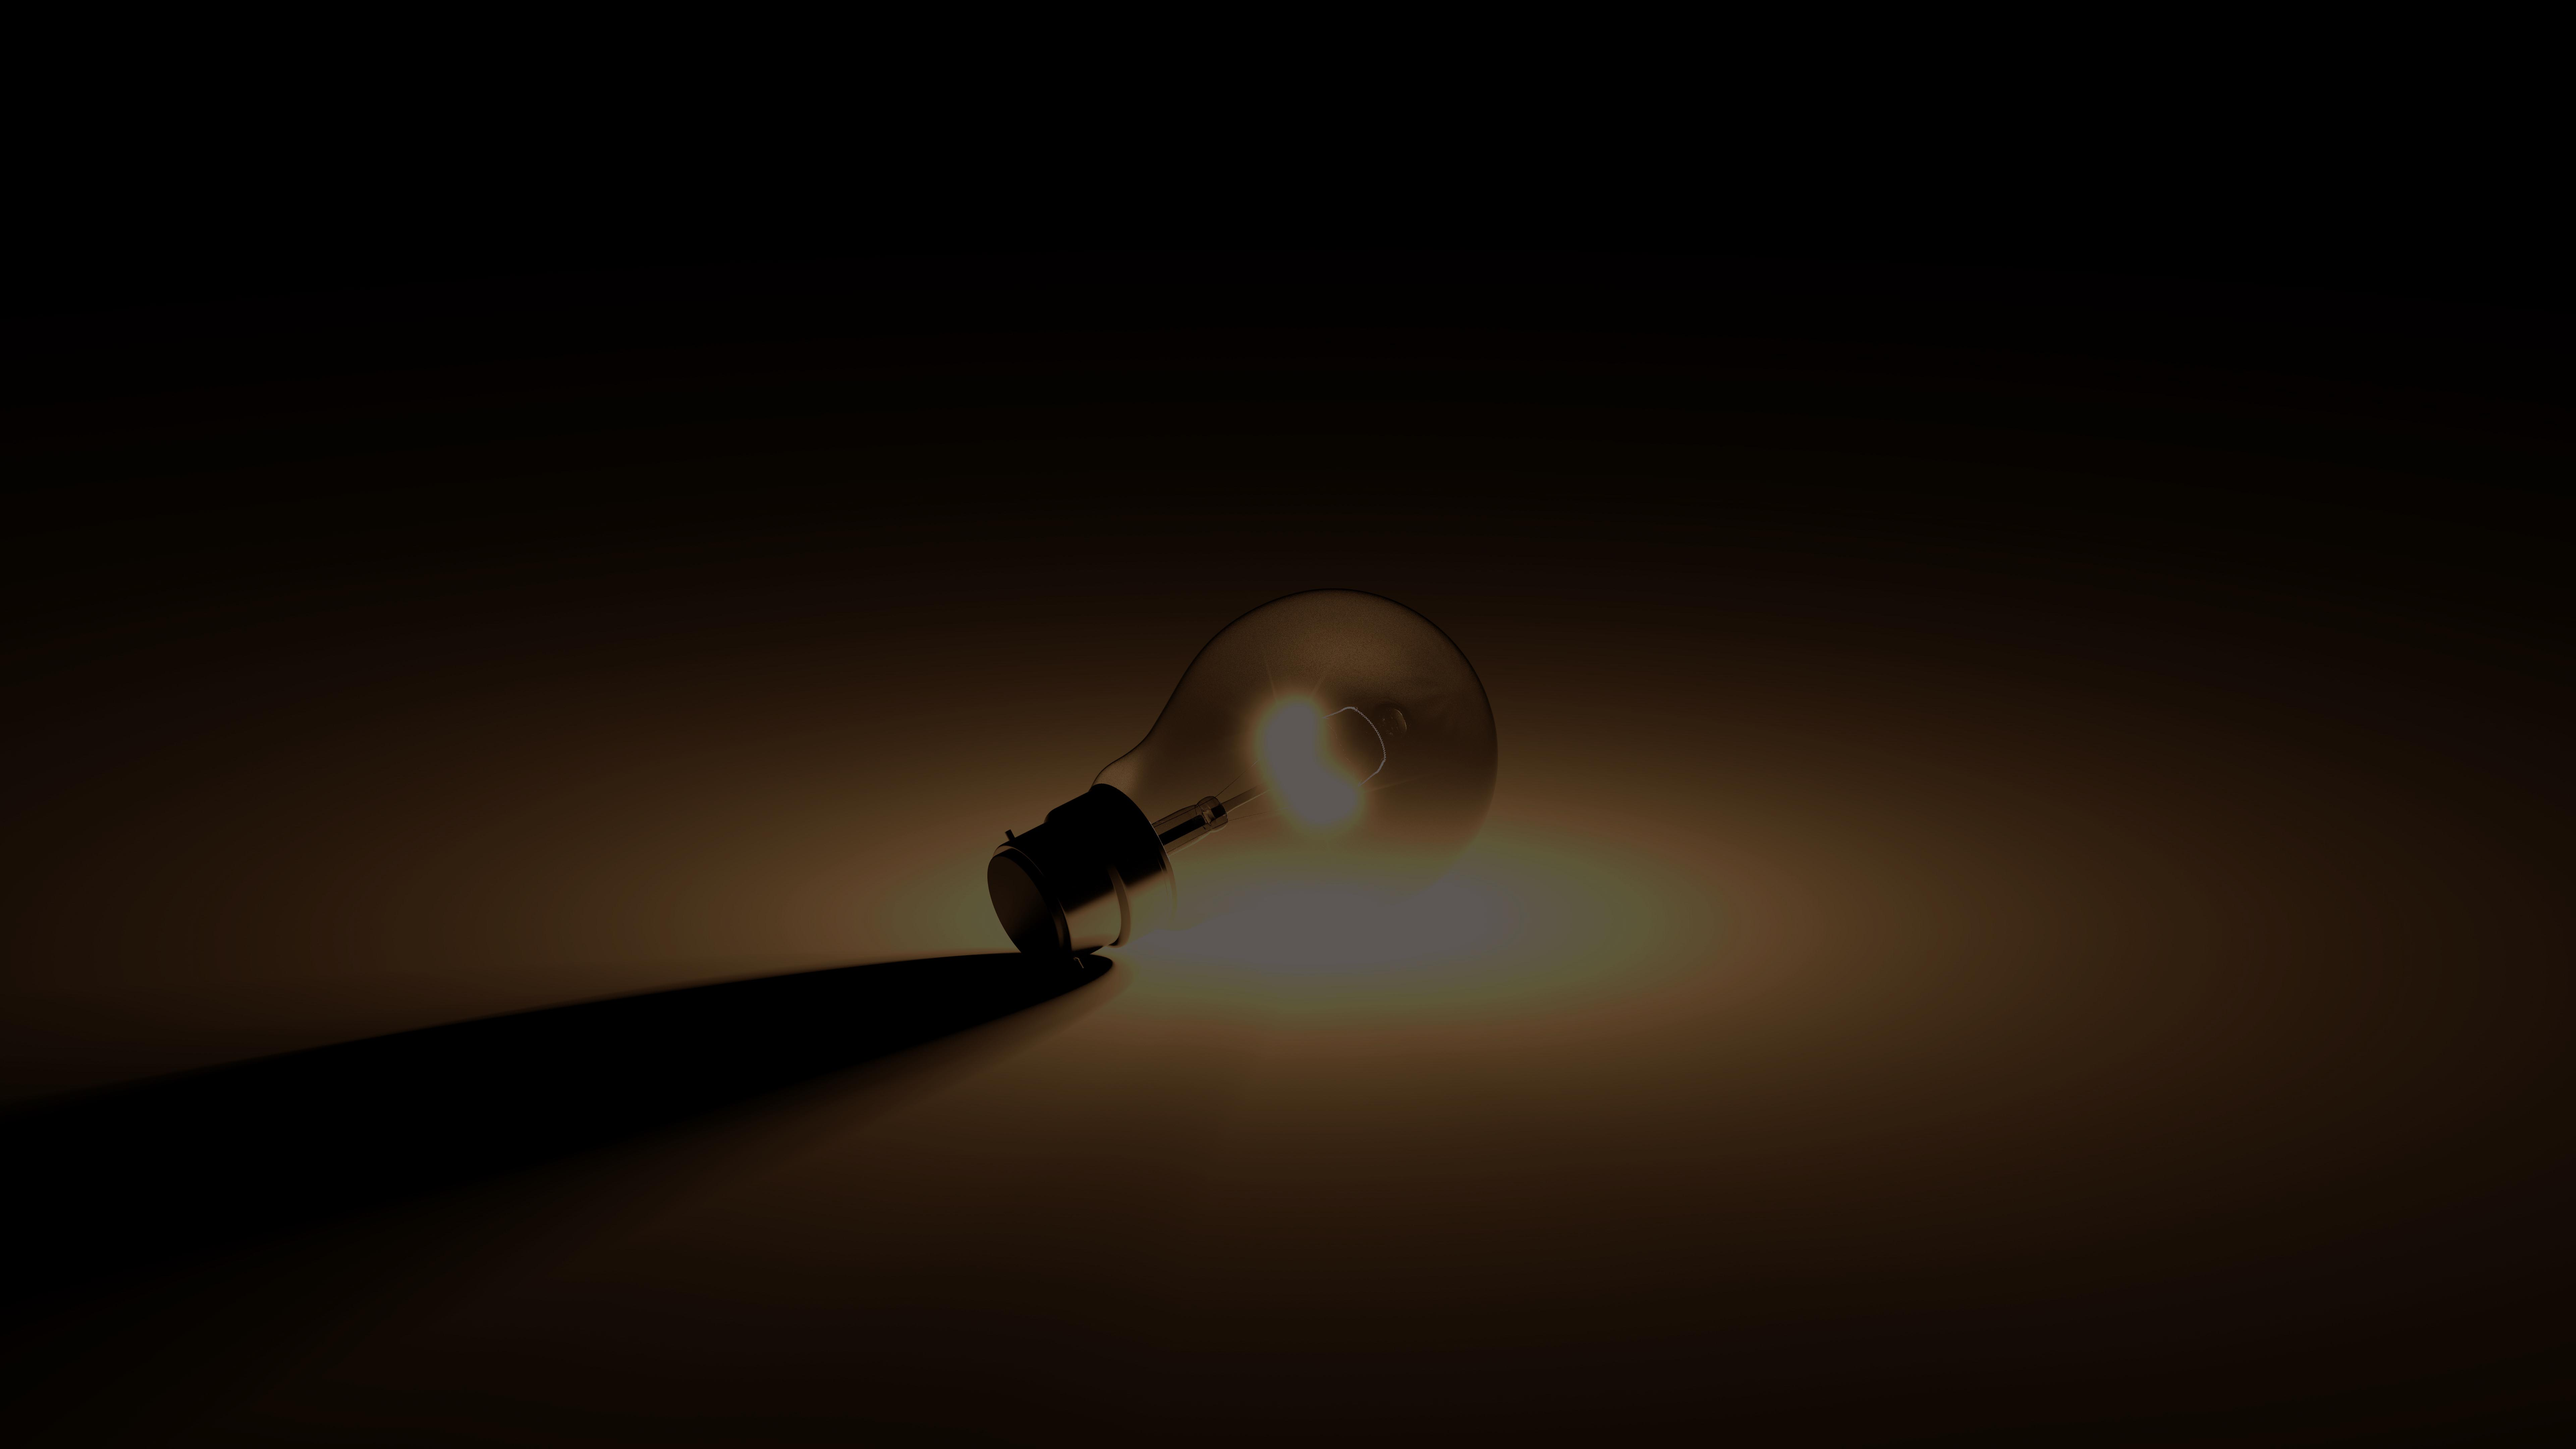
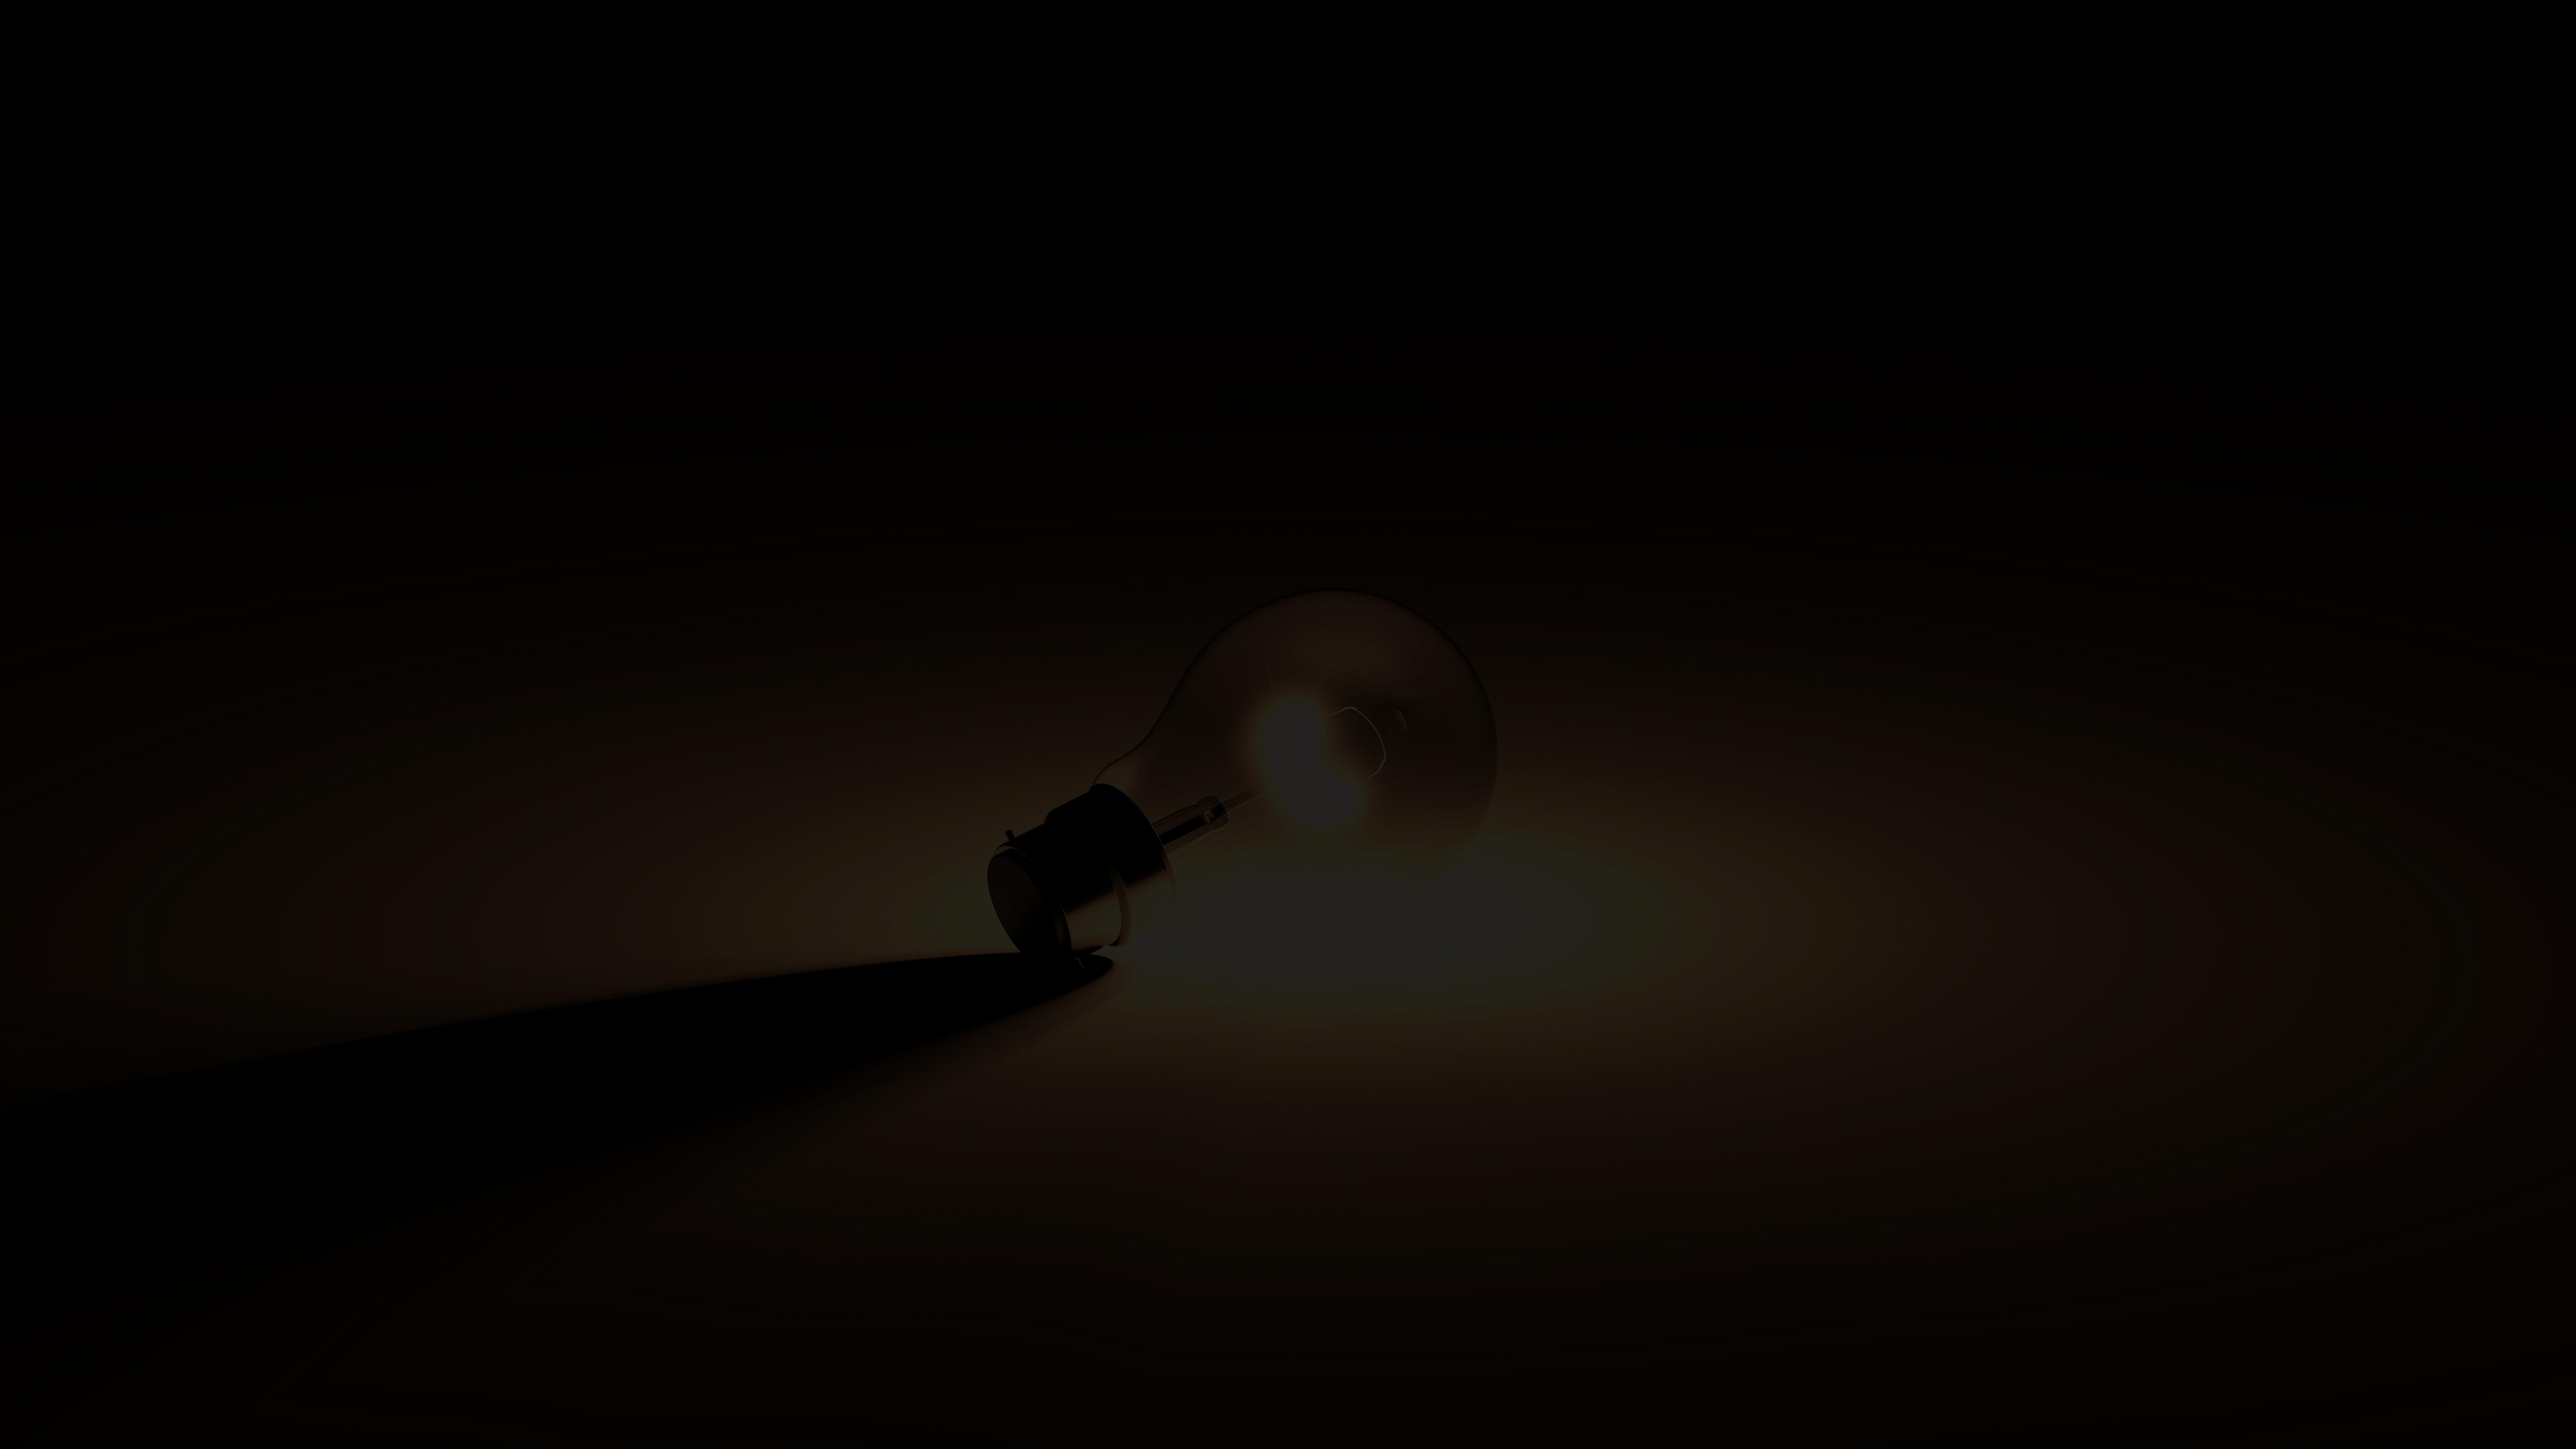
editting background

Changed region(s): [[0.0938, 0.4062, 0.9062, 0.8438]]

diff --git a/assets/css/style.css b/assets/css/style.css
@@ -282,8 +282,10 @@ li a {
 	padding-left: 4vw;
 	text-align: center;
 	padding-bottom: 30px;
+	background: url("../img/black2.jpg");
 }
 
+/*
 #skills::before {
 	content: "";
 	width: 100vw;
@@ -292,11 +294,11 @@ li a {
 	top: 0;
     left: 0;
 	background: url("../img/black5.jpg");
-/*	background-color: black;*/
 	background-size: cover;
-/*	will-change: transform;*/
 	z-index: -1;
+	filter:brightness(30%)
 }
+*/
 
 .subheading.sk {
 	color: white;
